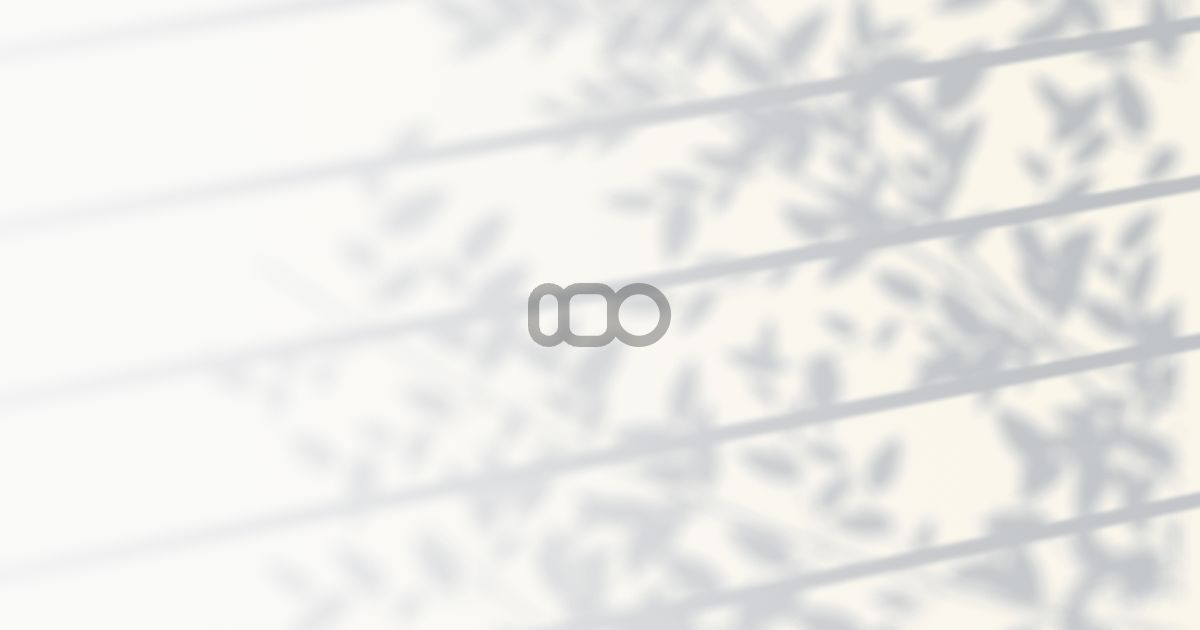
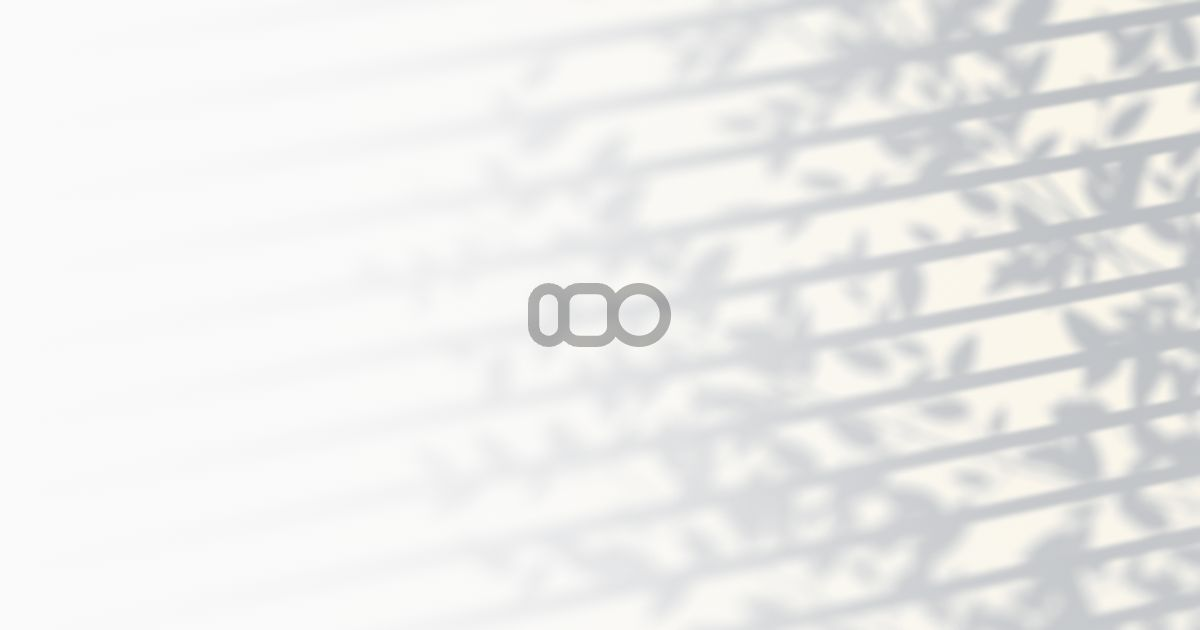
feat: give the social card dense slats that taper off to the left

diff --git a/src/dev/og-fixture.tsx b/src/dev/og-fixture.tsx
@@ -5,12 +5,13 @@ import { Logo } from '#/components/logo'
 import { defaultAmbientSettings } from '#/lib/ambient-settings'
 import type { AmbientSettings } from '#/lib/ambient-settings'
 
-// Lit from the right and fading out to the left, as most leaf-shadow photographs are: the
-// leaves smaller and denser than the site's, a few thin slats, a narrower beam.
+// Lit from the right: dense slats and small leaves there, blurring and tapering off into plain
+// wall to the left, as most leaf-shadow photographs do. A narrow beam aimed past the logo gives
+// the falloff.
 const card = {
-  // The scene hangs from the wall's right edge; a wall taller than the card, cropped to its
-  // middle, carries the light toward the left.
-  wall: 760,
+  // The wall's height in CSS pixels. The scene hangs from its right edge; a wall taller than the
+  // card, cropped to its middle, enlarges the shadows and carries them further left.
+  wall: 630,
   logo: 64,
   opacity: 0.38,
 }
@@ -21,11 +22,11 @@ const cardSettings: AmbientSettings = {
     ...defaultAmbientSettings.light,
     intensity: 1,
     softness: 0.35,
-    progressiveSoftness: 1.5,
-    beamWidth: 0.55,
+    progressiveSoftness: 3,
+    beamWidth: 0.3,
   },
-  blinds: { ...defaultAmbientSettings.blinds, opening: 0.9, spacing: 0.2 },
-  foliage: { ...defaultAmbientSettings.foliage, density: 1, depth: 0.6, scale: 0.68 },
+  blinds: { ...defaultAmbientSettings.blinds, spacing: 0.1 },
+  foliage: { ...defaultAmbientSettings.foliage, scale: 0.75 },
 }
 
 // Tuning aid: ?wall=&logo=&opacity= and light., blinds. or foliage.<key>= (such as

diff --git a/tools/og/shoot.ts b/tools/og/shoot.ts
@@ -29,7 +29,7 @@ await page.waitForFunction(
 )
 // The beam follows the pointer: aim it right of the logo (AIM=x,y overrides), and let it settle. The leaves keep
 // moving, so each capture differs; rerun for another frame.
-const [aimX = 0.78, aimY = 0.38] = (process.env.AIM ?? '').split(',').filter(Boolean).map(Number)
+const [aimX = 0.9, aimY = 0.4] = (process.env.AIM ?? '').split(',').filter(Boolean).map(Number)
 await page.mouse.move(aimX * 1200, aimY * 630)
 await page.waitForTimeout(2800)
 // Leave out the devtools and anything else beside the card.

diff --git a/AGENTS.md b/AGENTS.md
@@ -25,7 +25,7 @@ This is the personal portfolio website for imomadjid.com, built with TanStack St
 - Allo is upstream's unmodified variable Friendly webfont from v1.0.3 (`public/fonts/allo/AlloVariableFriendly.woff2`: weight 100 to 900, optical size 9 to 32, no roundness axis). Any weight works and weight changes animate, so use `font-*` weights rather than faking bold. Its 400 matches the static Regular it replaced.
 - DialKit, the Sleep Focus particles, and the `?ambientProfile` renderer timer are dev tools. Keep them behind `import.meta.env.DEV_TOOLS` so production bundles exclude them. The `dev-tools` plugin in `vite.config.ts` sets it: true in the dev server and in the dev.imomadjid.com build (`CLOUDFLARE_ENV=dev`), false in production builds. Don't gate dev tools on `import.meta.env.DEV`, which is false on the dev site. `src/env.d.ts` declares it.
 - `/dev` is a playground served by the dev server and dev.imomadjid.com: route files in `src/routes/dev/` gate `head` and `component` on `import.meta.env.DEV_TOOLS` and lazy-load pages from `src/dev/`; production throws `notFound()` and the prerender filter skips `/dev`. Add test pages to `src/dev/pages.ts`.
-- The social card `public/og.jpg` is `/dev/og` (`src/dev/og-fixture.tsx`): the Sunlit wall lit from the right and fading to the left, with a faded logo in the middle, on a wall taller than the card so the light reaches past it. `bun tools/og/shoot.ts` captures it from the running dev server in Chrome at 1200 x 630, aiming the beam with the pointer; the leaves move, so rerun it for another frame. Query overrides (`?logo=72&foliage.scale=0.7`) tune it without editing the fixture.
+- The social card `public/og.jpg` is `/dev/og` (`src/dev/og-fixture.tsx`): the Sunlit wall lit from the right, its slats and leaves tapering off into plain wall to the left, with a faded logo in the middle. `bun tools/og/shoot.ts` captures it from the running dev server in Chrome at 1200 x 630, aiming the beam with the pointer; the leaves move, so rerun it for another frame. Query overrides (`?logo=72&foliage.scale=0.7`) tune it without editing the fixture.
 - The Sunlit canvas is fixed to the viewport: the light comes through a window, so it stays put while the page scrolls past. Anything that casts a shadow into it scrolls with the page, so it publishes its geometry in the canvas's frame, not `main`'s, and republishes on scroll. The wand does this in `src/components/blind-wand-engine.ts` (`frameLight`, `follow`) through `wandPose` in `src/lib/sunlit-scene.ts`; the shader reads that pose as is.
 - Phone tilt (`src/lib/device-tilt.ts`, with the sensor in `src/lib/tilt-sensor.ts`) turns the room against the sun: tilting a touch-first device rotates the light source about the middle of the wall, so deeper casters' shadows slide farther. The shader and the wand's CPU light (`src/components/blind-wand-light.ts`) both apply `tiltSource`; the renderer publishes the turn as `sceneLight.phoneTilt`. Rolling the phone also turns gravity within the screen, so the blind wand swings to hang plumb: the renderer publishes that angle as `sceneLight.plumb`, and the wand's swing spring pulls toward it instead of straight down the screen. Its shadow follows through `wandPose`. The renderer asks for motion access on load, which Chromium (it has `requestPermission` too) grants at once; Safari on iOS only asks from a tap, so it asks on the first tap on the page itself, not on a link or control. Tune it with the `phoneTilt` DialKit group.
 - Pointer gusts (`src/lib/sunlit-gust.ts`) swing each canopy about its attachment on a spring and make leaves near the stroke flicker. Don't displace the foliage lookup by an amount that varies across the canopy: that stretches leaf shadows (an earlier gust did, by up to a quarter). Turning a whole branch keeps their shapes, and the flicker changes leaf coverage instead of position. `src/lib/sunlit-geometry.ts` holds CPU copies of the shader's sun and canopy geometry; change both together. Tune it with the `breeze` DialKit group.
